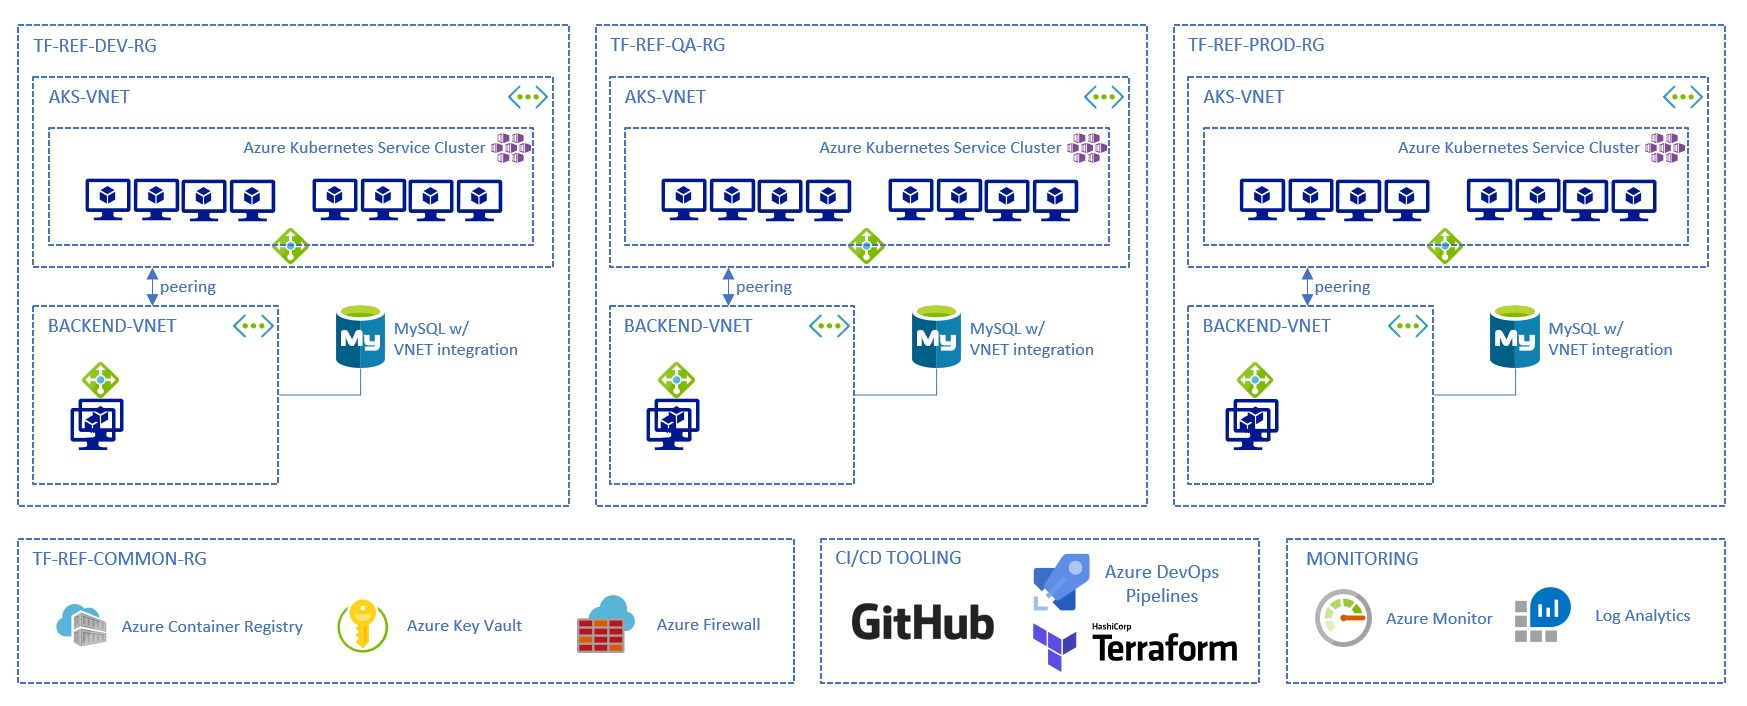
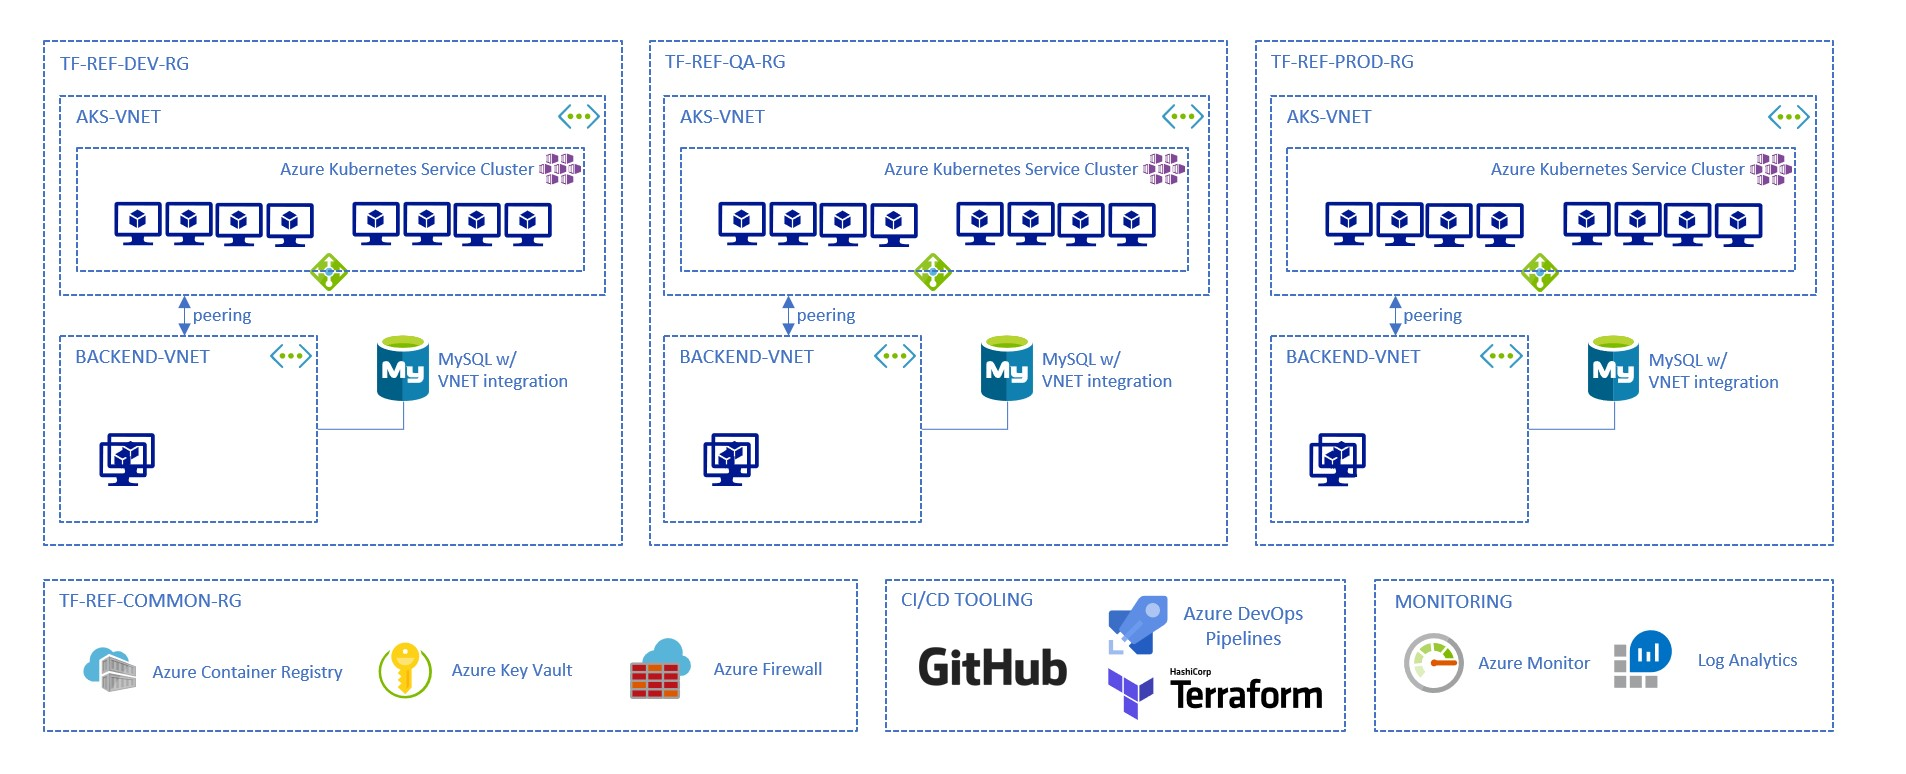
update architecture diagram + README

Changed region(s): [[0.0, 0.0312, 0.9891, 0.7167], [0.0, 0.7479, 0.9891, 0.966], [0.4637, 0.4363, 0.6182, 0.5609]]

diff --git a/README.md b/README.md
@@ -14,9 +14,8 @@ This repository guides you in deploying the following architecture on Microsoft 
 
 There are 3 environments (Dev, QA and Prod). Each of the environment contains:
 - An [Azure Kubernetes Service](https://docs.microsoft.com/en-us/azure/aks/intro-kubernetes) cluster, in its own virtual network
-- Some load balancers
-- A backend virtual network, that contains a [Virtual Machine Scale Set](https://docs.microsoft.com/en-us/azure/virtual-machine-scale-sets/overview) hosting a "legacy application"
-- An [Azure Database for MySQL](https://docs.microsoft.com/en-us/azure/mysql/overview) service instance with [virtual network service endpoint](https://docs.microsoft.com/en-us/azure/mysql/concepts-data-access-and-security-vnet) so it can be reached by the legacy workloads and services running in AKS (Backend virtual network and AKS virtual network are peered together)
+- A backend virtual network, that contains one or more virtual machines that act as bastion / jump boxes
+- An [Azure Database for MySQL](https://docs.microsoft.com/en-us/azure/mysql/overview) service instance with [virtual network service endpoint](https://docs.microsoft.com/en-us/azure/mysql/concepts-data-access-and-security-vnet) so it can be reached by jumbbox and services running in AKS (Backend virtual network and AKS virtual network are peered together)
 
 There are also common services used here:
 - [Azure Container Registry](https://docs.microsoft.com/en-us/azure/container-registry/), to store the Docker image
